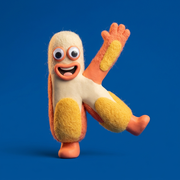
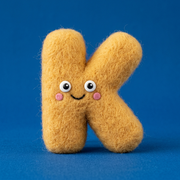
assets: App 圖示改用羊毛氈素色 K（單色身體＋黏土眼睛，小尺寸辨識度更好）

diff --git a/HANDOFF.md b/HANDOFF.md
@@ -172,6 +172,7 @@ Obsidian/發想/開發/兒童英語學習平台/
 - 原始生成圖（`/Users/admin/VK Agent/image-generator-skill/for Kids/badge 2/app_icon_letter_k_monster_one_foot.png`，1024×1024）用 Python/PIL 檢查過角色主體輪廓的安全邊界（排除模糊陰影/壓縮雜訊後，實際輪廓 margin 落在 11.7%～23.6% 之間），足夠安全不用額外重新置中裁切，直接以此為來源縮圖。
 - 已產生全部尺寸並直接放進 `app/public/`：`favicon.ico`（16/32/48 多尺寸）、`apple-touch-icon.png`（180×180）、`icons/icon-192.png`、`icons/icon-512.png`、`icons/favicon-16.png`、`icons/favicon-32.png`。32px 以上肉眼確認清晰可辨（臉、四肢、笑臉都看得出來），16px 只剩色塊輪廓可辨（跟所有 favicon 在這個尺寸的普遍限制一樣，不是這次美術的問題）。
 - 技術接線（新增 `manifest.webmanifest`＋`index.html` 補 `<link>`／`<meta>` 標籤）寫成 `docs/handoff-prompt-app-icon-manifest.md` 交給 App 端 session，範圍刻意只到「有固定安裝圖示＋全螢幕獨立視窗」，不含 service worker／離線快取（沒有被要求，不擴大範圍）。
+- **2026-08-28 追加調整**：使用者接著要求再做一版更簡化的造型——單色羊毛氈身體＋黏土眼睛、不做手腳（`/Users/admin/VK Agent/image-generator-skill/for Kids/badge 2/app_icon_letter_k_felt_plush.png`）。用色相分析（B 通道是否明顯比 R/G 高，排除掉單純比對單一背景色會被漸層/陰影誤判的問題）量測過兩版的角色輪廓安全邊界：手腳版原圖本身安全（11.7%～23.6%），但用同一份 hue-based 分析重新檢查後發現簡化版留白更充足（14.4%～22.6%），且縮到 16px favicon 時**字形本身依然清楚可辨**，比手腳版縮到同尺寸只剩色塊模糊好判讀很多——判斷原因是手腳版在小尺寸时滾動眼睛、四肢細節會互相干擾，簡化版單靠字形輪廓本身當視覺主體，反而更適合小尺寸圖示的判讀需求。使用者確認後正式採用羊毛氈素色版，`app/public/` 底下全部尺寸的圖檔已覆蓋更新為這版，`docs/handoff-prompt-app-icon-manifest.md` 的技術接線內容不用改（只是換了來源圖檔，接線方式跟檔名都一樣）。
 
 ### 9.98 App 端執行：手機版排版第二輪修正（題型選單標題／字卡圖示排列／徽章彈窗捲動鎖定）（2026-08-28）
 
